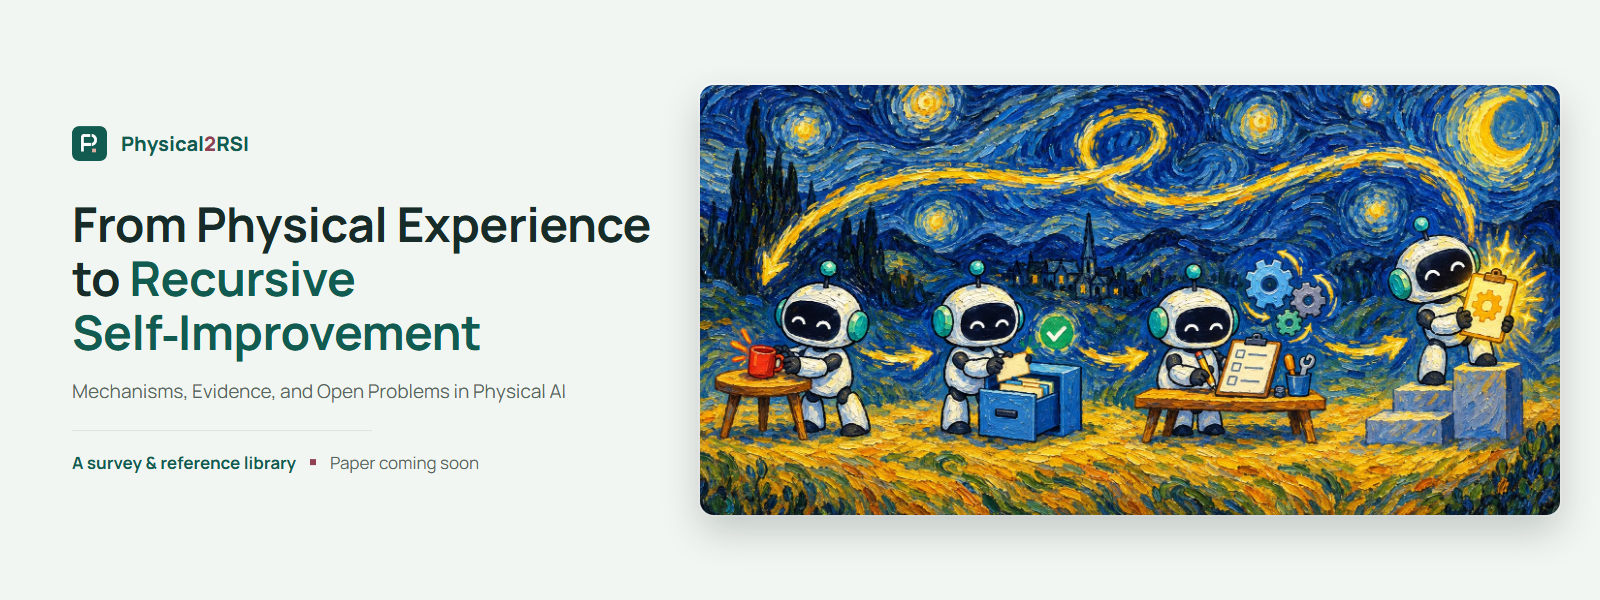
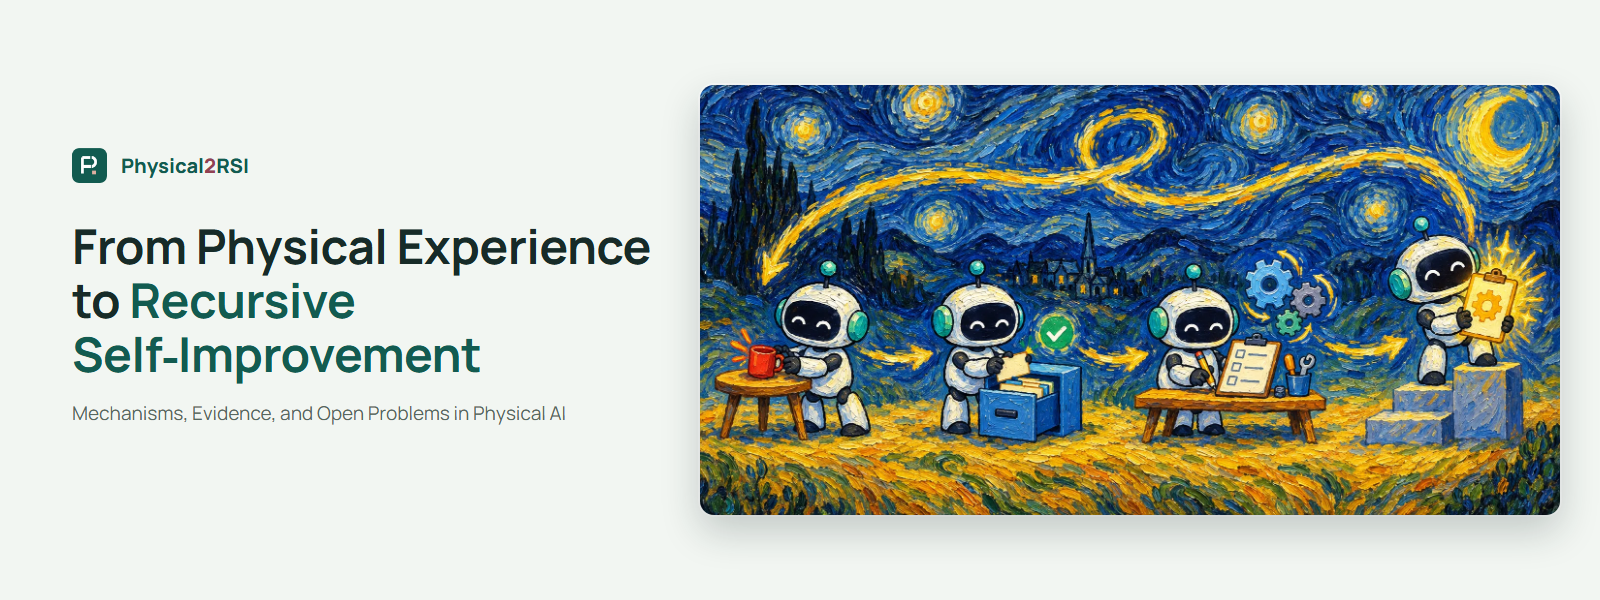
Remove taglines and "coming soon" notes
- Website hero: drop the "Physical2RSI · A survey & reference library"
  eyebrow and the "Paper coming soon · this page summarizes the
  manuscript..." note.
- Website: drop the "The paper is coming soon" publication section, its
  navigation link and the footer tagline; check.mjs no longer requires
  that section.
- README: drop the "Paper: coming soon" badge and the not-yet-public note.
- README banner and sharing image: drop the status line under the
  subtitle.

Changed region(s): [[0.0312, 0.33, 0.4062, 0.72], [0.0312, 0.21, 0.1562, 0.3], [0.0312, 0.75, 0.3125, 0.78]]

diff --git a/index.html b/index.html
@@ -95,8 +95,7 @@
         >
         <nav id="navigation" class="navigation" aria-label="Main navigation">
           <a href="#survey">Survey</a
-          ><a href="#references">Reference library</a
-          ><a href="#publication">Publication</a>
+          ><a href="#references">Reference library</a>
         </nav>
         <div class="header-actions">
           <a
@@ -146,7 +145,6 @@
         <canvas class="hero-sky" aria-hidden="true"></canvas>
         <div class="hero-inner">
           <div class="hero-copy">
-            <p class="hero-eyebrow"><span class="status-dot"></span>Physical2RSI · A survey &amp; reference library</p>
             <h1 id="project-title">From Physical Experience to <span>Recursive Self&#8209;Improvement</span></h1>
             <p class="hero-subtitle">Mechanisms, Evidence, and Open Problems in Physical AI</p>
             <p class="hero-authors"><span>Meng Luo<sup>1</sup></span><span>Zechen Bai<sup>1</sup></span><span>Shanqing Xu<sup>2</sup></span><span>Yanlin Li<sup>1</sup></span><span>Kaixin Li<sup>1</sup></span><span>Mengchen Qian<sup>2</sup></span><span>Ziyang Luo<sup>3</sup></span><span>Wei Chen<sup>2</sup></span><span>Hongzhan Lin<sup>1</sup></span></p>
@@ -157,7 +155,6 @@
               <a href="#survey-citation" class="button button-glass"><svg viewBox="0 0 16 16" width="16" height="16" fill="none" stroke="currentColor" stroke-width="1.6" stroke-linecap="round" stroke-linejoin="round" aria-hidden="true"><path d="M3.5 2.5h9v11l-4.5-3-4.5 3z"/></svg>BibTeX</a>
               <a href="https://github.com/Eurekaleo/Awesome-Physical2RSI" class="button button-glass" target="_blank" rel="noopener noreferrer"><svg viewBox="0 0 16 16" width="16" height="16" aria-hidden="true"><path fill="currentColor" d="M8 0C3.58 0 0 3.58 0 8c0 3.54 2.29 6.53 5.47 7.59.4.07.55-.17.55-.38 0-.19-.01-.82-.01-1.49-2.01.37-2.53-.49-2.69-.94-.09-.23-.48-.94-.82-1.13-.28-.15-.68-.52-.01-.53.63-.01 1.08.58 1.23.82.72 1.21 1.87.87 2.33.66.07-.52.28-.87.51-1.07-1.78-.2-3.64-.89-3.64-3.95 0-.87.31-1.59.82-2.15-.08-.2-.36-1.02.08-2.12 0 0 .67-.21 2.2.82.64-.18 1.32-.27 2-.27.68 0 1.36.09 2 .27 1.53-1.04 2.2-.82 2.2-.82.44 1.1.16 1.92.08 2.12.51.56.82 1.27.82 2.15 0 3.07-1.87 3.75-3.65 3.95.29.25.54.73.54 1.48 0 1.07-.01 1.93-.01 2.2 0 .21.15.46.55.38A8.013 8.013 0 0016 8c0-4.42-3.58-8-8-8z"/></svg>GitHub</a>
             </div>
-            <p class="hero-note">Paper coming soon · this page summarizes the manuscript with the authors&#39; approval</p>
           </div>
           <figure class="hero-art">
             <img src="assets/teaser.webp" width="1774" height="887" fetchpriority="high" alt="A painting in the style of Van Gogh: under a swirling starry sky, a small robot practises grasping a mug, files the change it kept, rewrites its own learning recipe, and climbs a step holding the improved recipe, while a golden trail loops back to the start." />
@@ -650,93 +647,6 @@
           </div>
         </div>
       </section>
-      <section
-        id="publication"
-        class="publication-section"
-        data-chapter="Publication"
-        aria-labelledby="publication-title"
-      >
-        <div class="container publication-inner">
-          <div class="publication-copy">
-            <p class="eyebrow section-eyebrow">Publication status</p>
-            <h2 id="publication-title">
-              The paper is coming soon<span class="heading-dot">.</span>
-            </h2>
-            <p>
-              The survey summary and reference library are available now.<br />A
-              link to the paper will follow its release.
-            </p>
-            <a
-              class="text-link"
-              href="https://github.com/Eurekaleo/Awesome-Physical2RSI"
-              target="_blank"
-              rel="noopener noreferrer"
-              >Follow the project<img
-                class="icon"
-                src="assets/icons/arrow-up-right.svg"
-                alt=""
-                width="18"
-                height="18"
-            /></a>
-          </div>
-          <dl class="availability-list">
-            <div>
-              <dt>
-                <img
-                  class="icon"
-                  src="assets/icons/library.svg"
-                  alt=""
-                  width="20"
-                  height="20"
-                />Reference library
-              </dt>
-              <dd class="available">
-                <span class="status-dot"></span>Available
-              </dd>
-            </div>
-            <div>
-              <dt>
-                <img
-                  class="icon"
-                  src="assets/icons/file-text.svg"
-                  alt=""
-                  width="20"
-                  height="20"
-                />Survey summary
-              </dt>
-              <dd class="available">
-                <span class="status-dot"></span>Available
-              </dd>
-            </div>
-            <div>
-              <dt>
-                <img
-                  class="icon"
-                  src="assets/icons/file-text.svg"
-                  alt=""
-                  width="20"
-                  height="20"
-                />Survey paper
-              </dt>
-              <dd>Coming soon</dd>
-            </div>
-            <div>
-              <dt>
-                <img
-                  class="icon"
-                  src="assets/icons/folder-open.svg"
-                  alt=""
-                  width="20"
-                  height="20"
-                />Citation
-              </dt>
-              <dd class="available">
-                <span class="status-dot"></span>Manuscript
-              </dd>
-            </div>
-          </dl>
-        </div>
-      </section>
     </main>
     <footer class="site-footer container">
       <a class="brand footer-brand" href="./"
@@ -744,7 +654,6 @@
           >Physical<span class="brand-accent">2</span>RSI</span
         ></a
       >
-      <p>A survey and open reference collection.</p>
       <div>
         <a
           href="https://github.com/Eurekaleo/Awesome-Physical2RSI/issues"

diff --git a/README.md b/README.md
@@ -5,7 +5,6 @@
   <p><strong><em>⭐ Star us if you find this useful!</em></strong></p>
 
   <a href="https://eurekaleo.github.io/Awesome-Physical2RSI/"><img src="https://img.shields.io/static/v1?label=&amp;message=Project+website&amp;color=087f80&amp;style=flat-square" alt="Project website" height="18"></a>
-  <a href="#publication"><img src="https://img.shields.io/static/v1?label=&amp;message=Paper%3A+coming+soon&amp;color=914252&amp;style=flat-square" alt="Paper: coming soon" height="18"></a>
   <a href="https://eurekaleo.github.io/Awesome-Physical2RSI/#references"><img src="https://img.shields.io/static/v1?label=&amp;message=229+references&amp;color=416cb3&amp;style=flat-square" alt="229 references" height="18"></a>
   <a href="LICENSE"><img src="https://img.shields.io/static/v1?label=&amp;message=Code%3A+MIT&amp;color=65716e&amp;style=flat-square" alt="Code: MIT" height="18"></a>
   <a href="https://awesome.re"><img src="https://awesome.re/badge-flat2.svg" alt="Awesome" height="18"></a>
@@ -13,11 +12,6 @@
   <p>Meng Luo<sup>1</sup> · Zechen Bai<sup>1</sup> · Shanqing Xu<sup>2</sup> · Yanlin Li<sup>1</sup> · Kaixin Li<sup>1</sup> · Mengchen Qian<sup>2</sup> · Ziyang Luo<sup>3</sup> · Wei Chen<sup>2</sup> · Hongzhan Lin<sup>1</sup></p>
   <p><sub><sup>1</sup> National University of Singapore &nbsp;·&nbsp; <sup>2</sup> Huazhong University of Science and Technology &nbsp;·&nbsp; <sup>3</sup> Hong Kong Baptist University</sub></p>
 </div>
-
-<a id="publication"></a>
-
-> [!NOTE]
-> The manuscript is not yet public. This page summarizes it with the authors' approval; a link to the paper will follow its release.
 
 <picture><source media="(prefers-color-scheme: dark)" srcset="assets/readme/icons/about-dark.svg"><source media="(prefers-color-scheme: light)" srcset="assets/readme/icons/about-light.svg"><img src="assets/readme/icons/about-light.svg" alt="" width="36" align="left"></picture>
 
